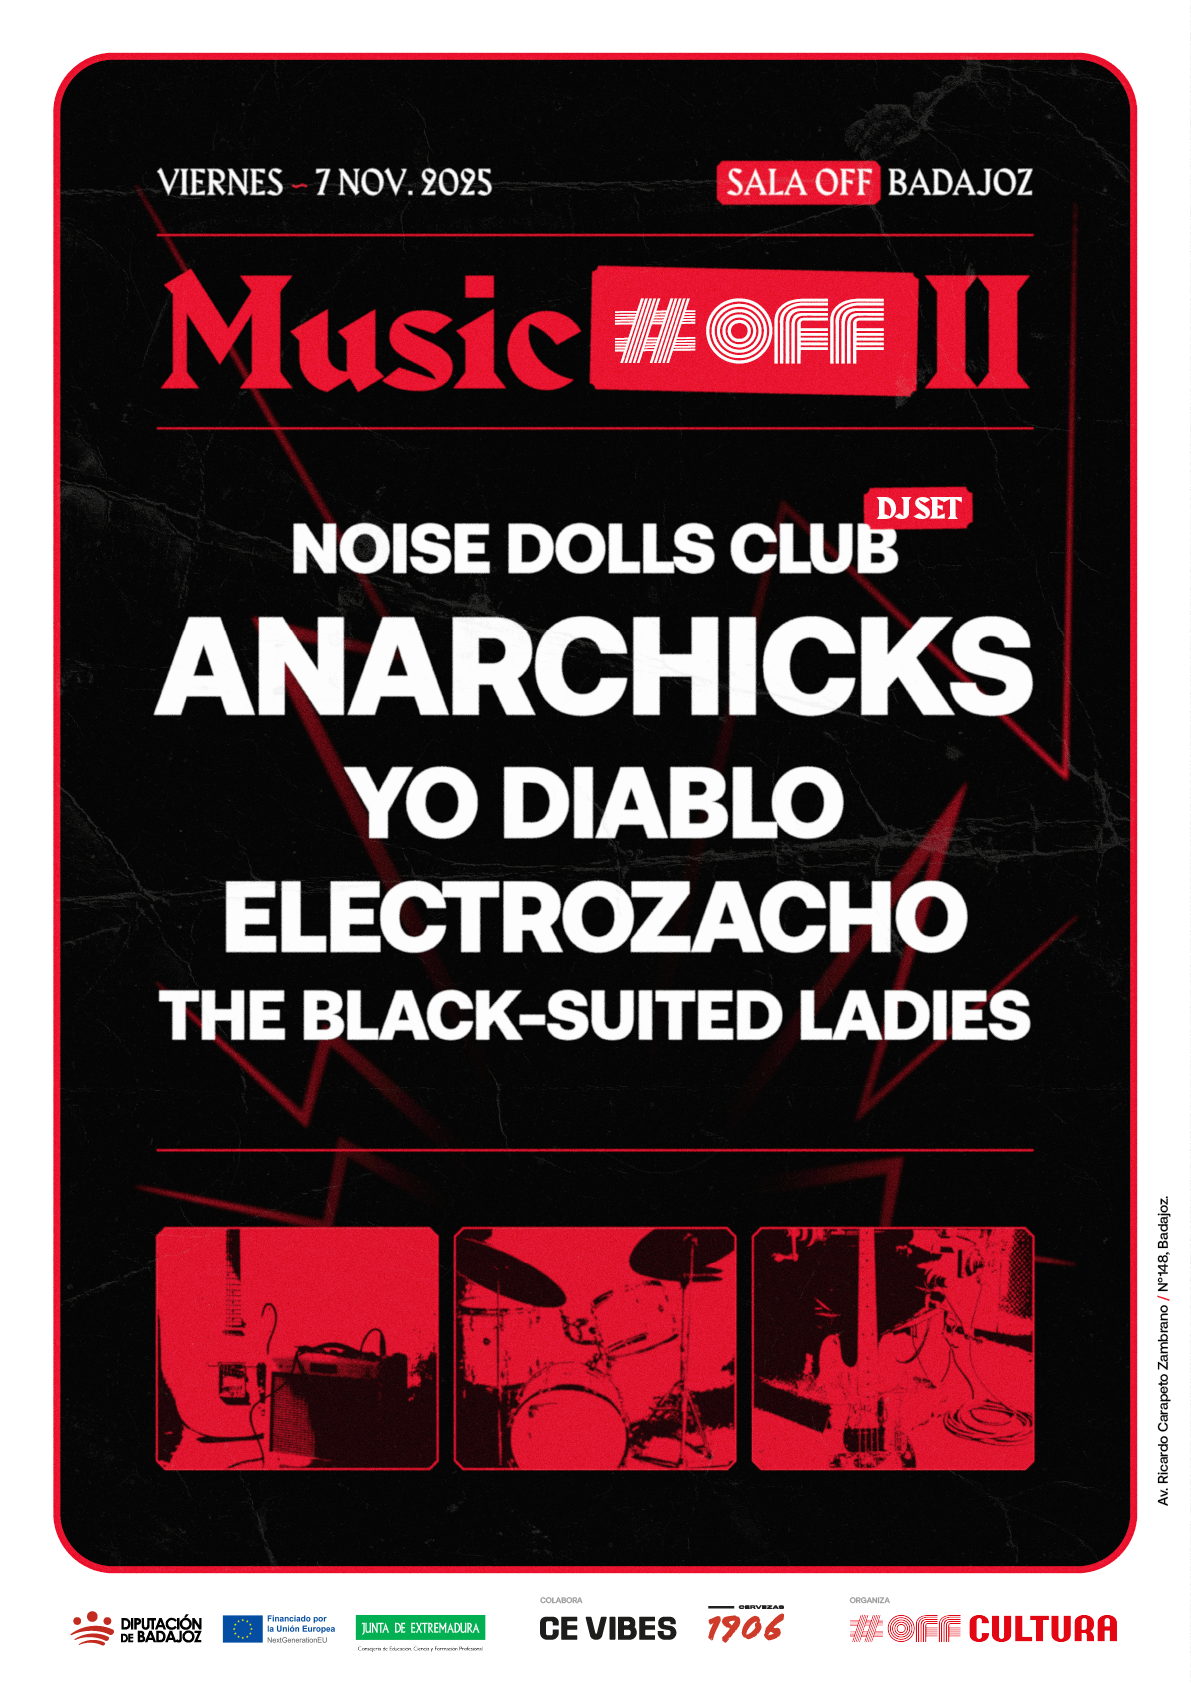
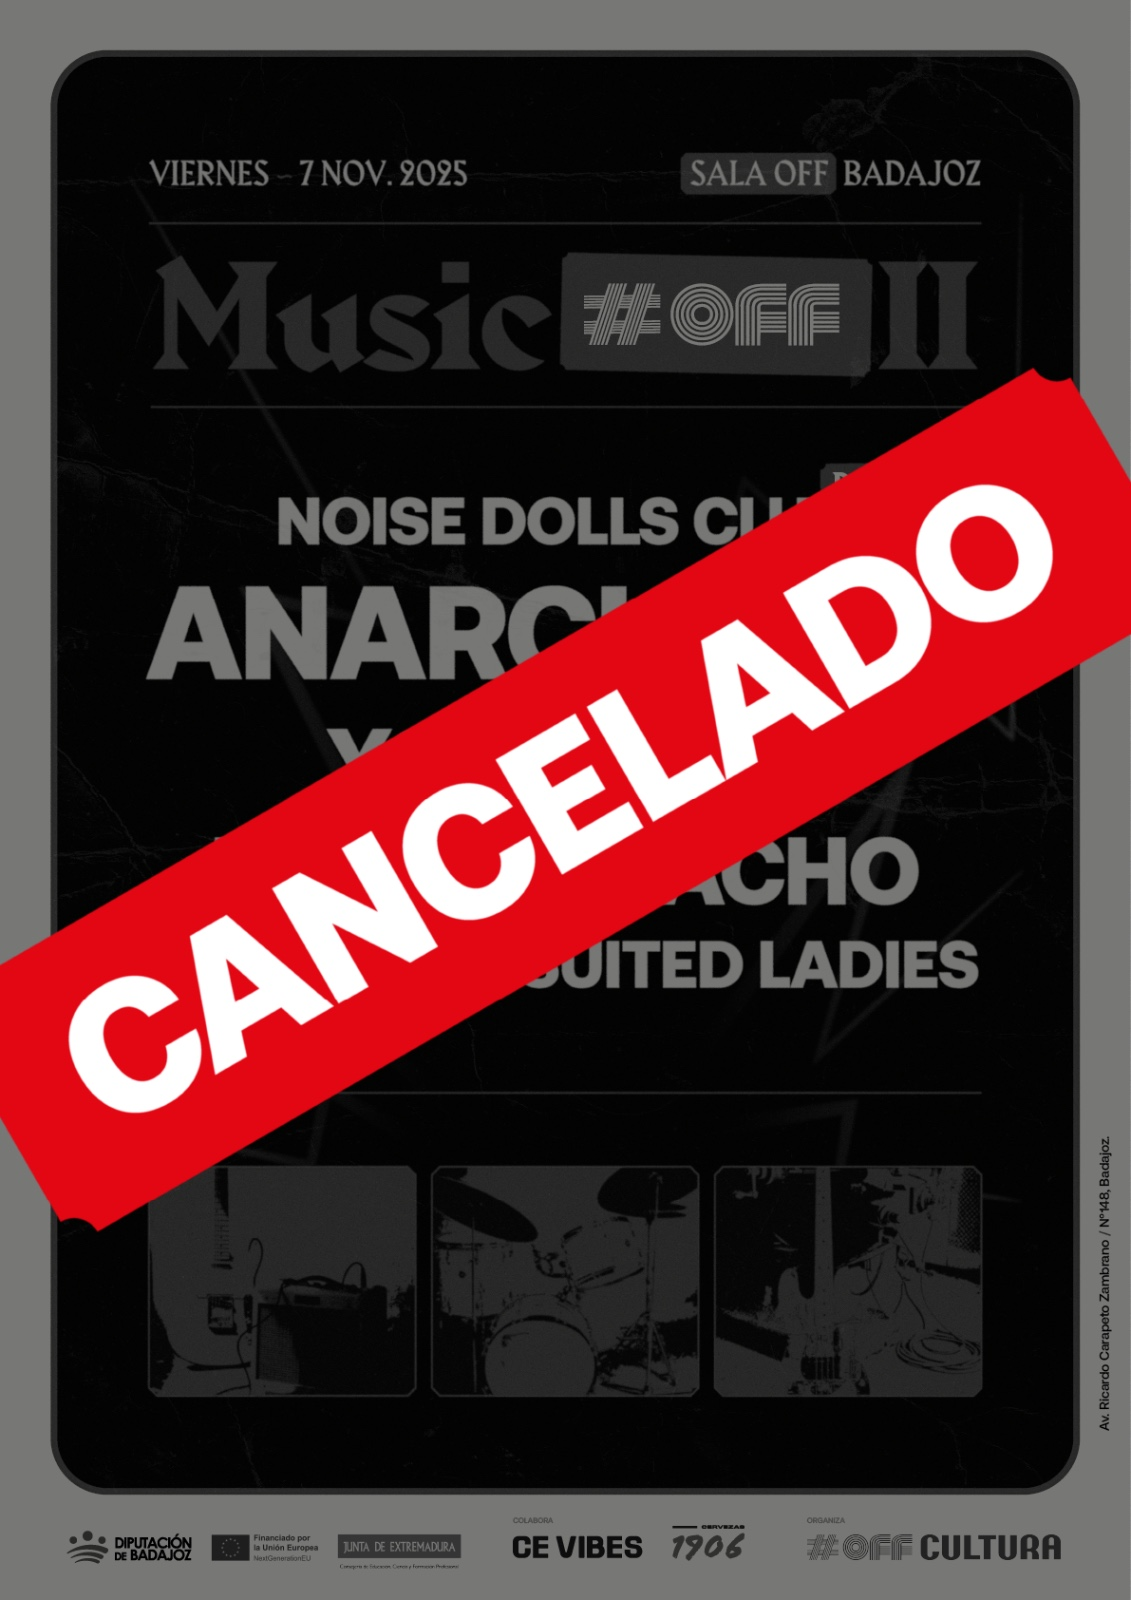
MUSICoff CANCELED

diff --git a/index.html b/index.html
@@ -58,9 +58,11 @@
       <h2 class="text-center mb-4"><b>Nosotros</b></h2>
       <p class="text-center">
         En <b>CE VIBES</b> vivimos la música en directo y la intensidad de los espectáculos en vivo.
-        Somos una productora especializada en la organización de conciertos, shows de comedia y eventos culturales en teatros, salas y espacios públicos.
+        Somos una productora especializada en la organización de conciertos, shows de comedia y eventos culturales en
+        teatros, salas y espacios públicos.
       </p>
-      <p class="text-center">En <b>CE VIBES</b> no solo organizamos espectáculos: <b>creamos momentos inolvidables</b>.</p>
+      <p class="text-center">En <b>CE VIBES</b> no solo organizamos espectáculos: <b>creamos momentos inolvidables</b>.
+      </p>
     </div>
   </section>
 
@@ -74,13 +76,10 @@
         <div class="col-12 col-md-6">
           <div class="cartel-wrapper text-center bg-dark p-3 rounded">
             <a href="./static/img/off2_cartaz.png" target="_blank">
-              <img src="./static/img/off2_cartaz.png" class="cartel-img img-fluid" alt="Cartel Music OFF" />
+              <img src="./static/img/off2_cartaz.png" class="cartel-img img-fluid" alt="Cartel Music OFF II" />
             </a>
             <div class="pt-3">
-              <a href="https://www.offcultura.com/producto/concierto-musicoff2/" target="_blank"
-                class="btn btn-outline-light btn-sm">
-                Comprar entradas
-              </a>
+              <p class="mt-2 text-light-50"><em>Evento cancelado. Gracias a todos por el apoyo. Seguiremos trabajando para ofrecer nuevas fechas y propuestas.</em></p>
             </div>
           </div>
         </div>
